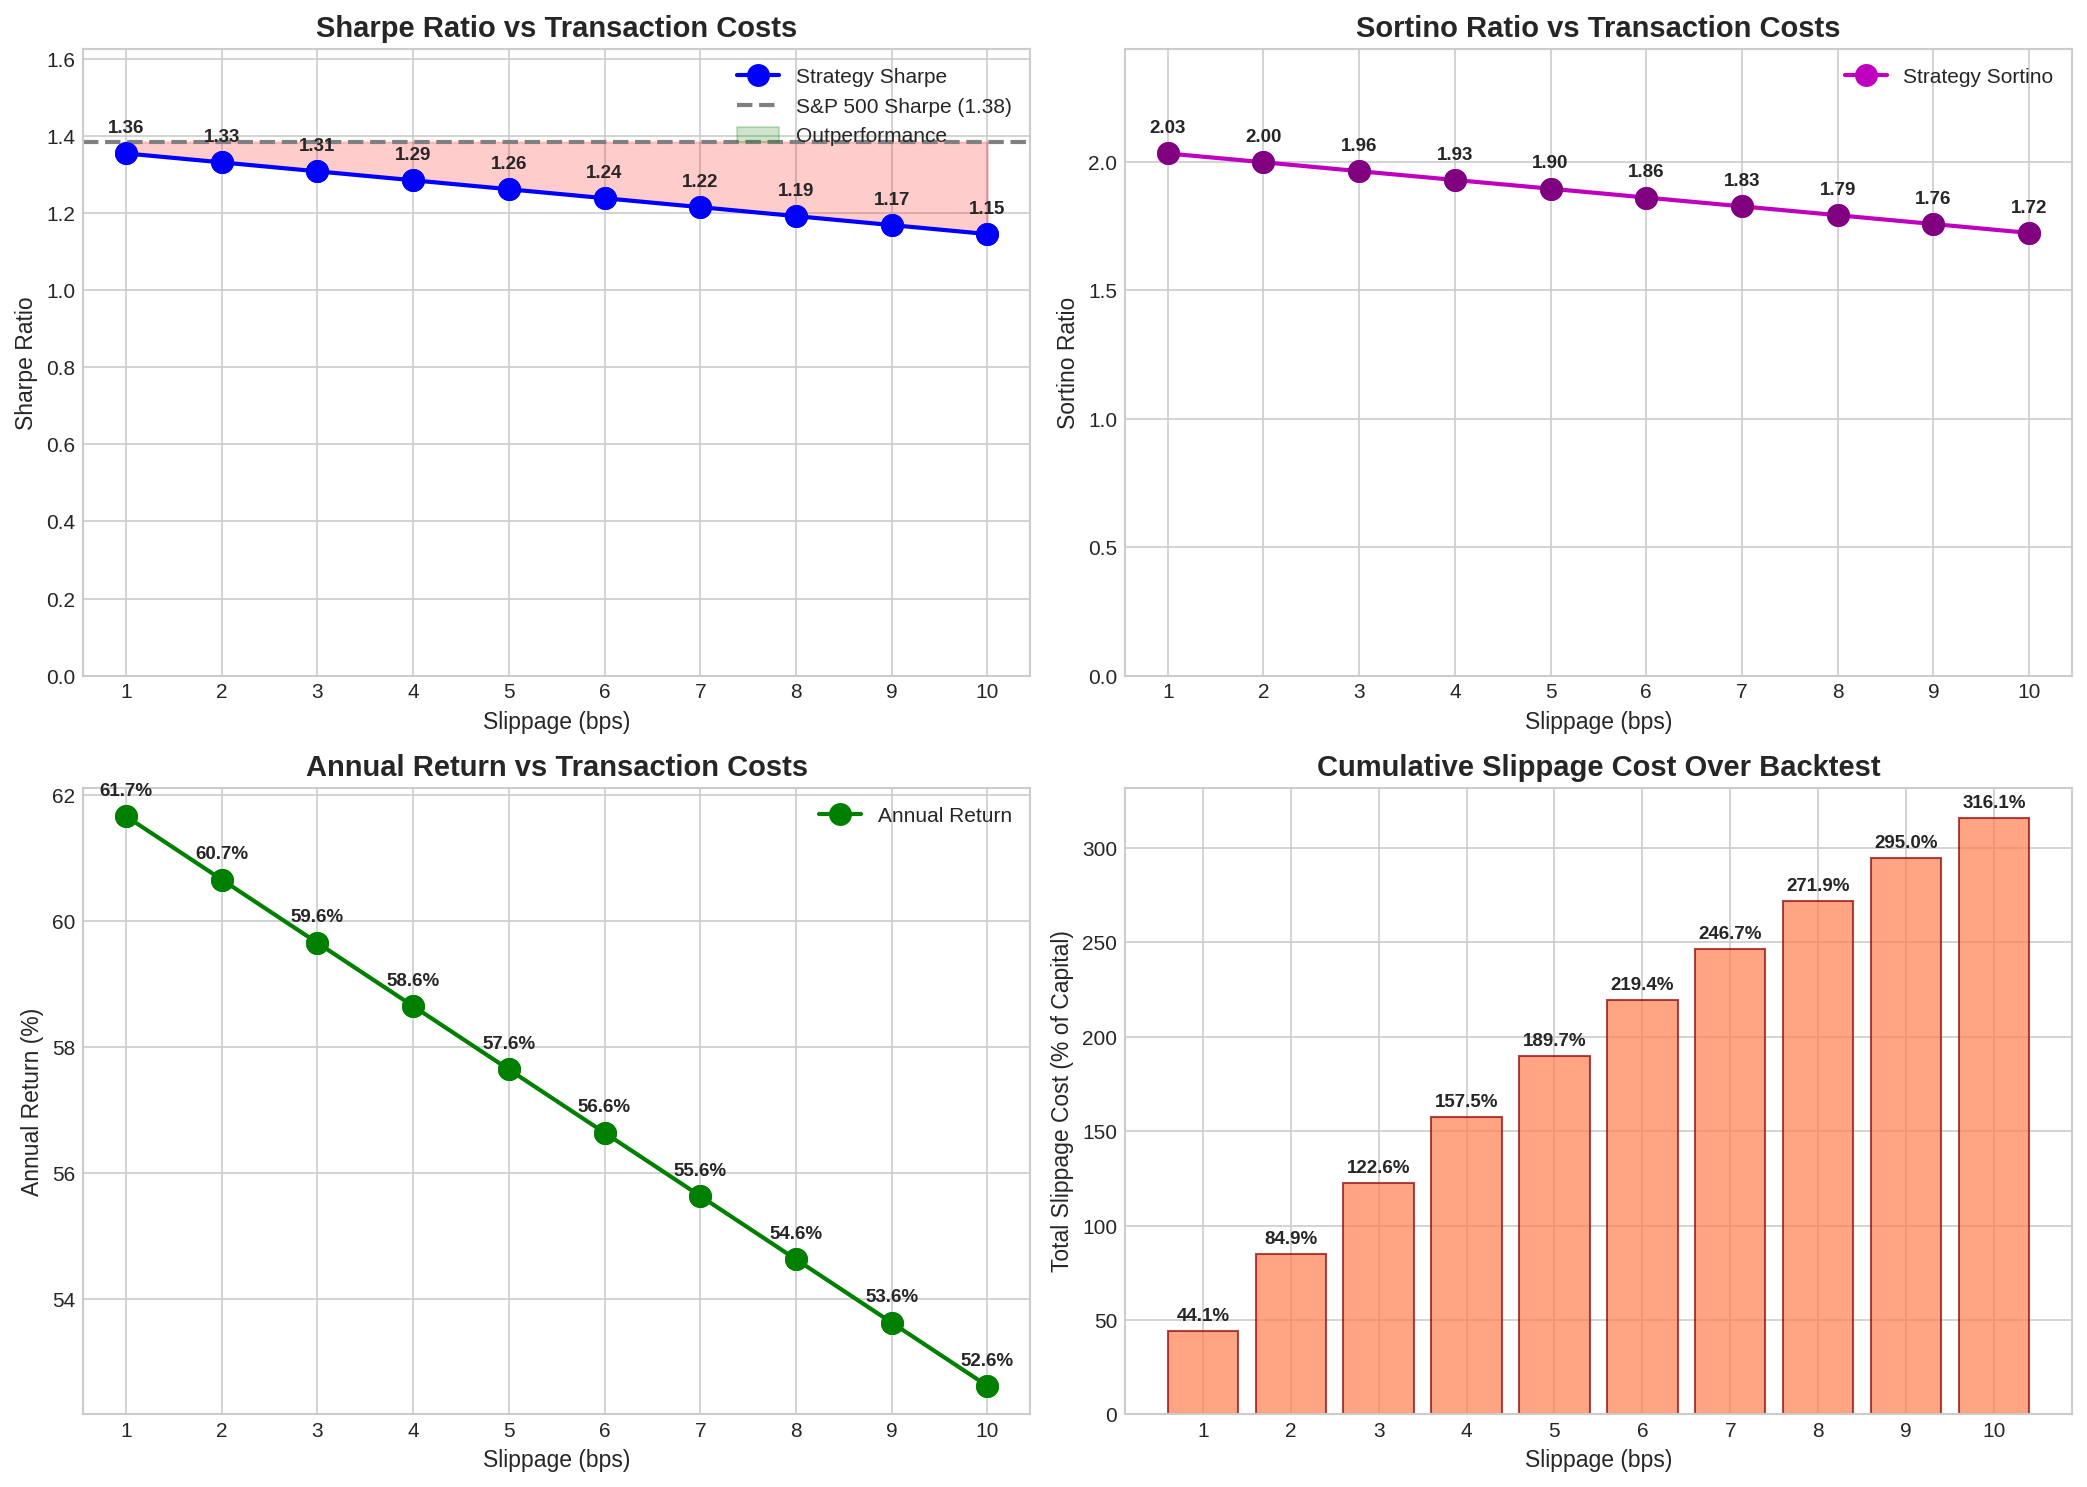
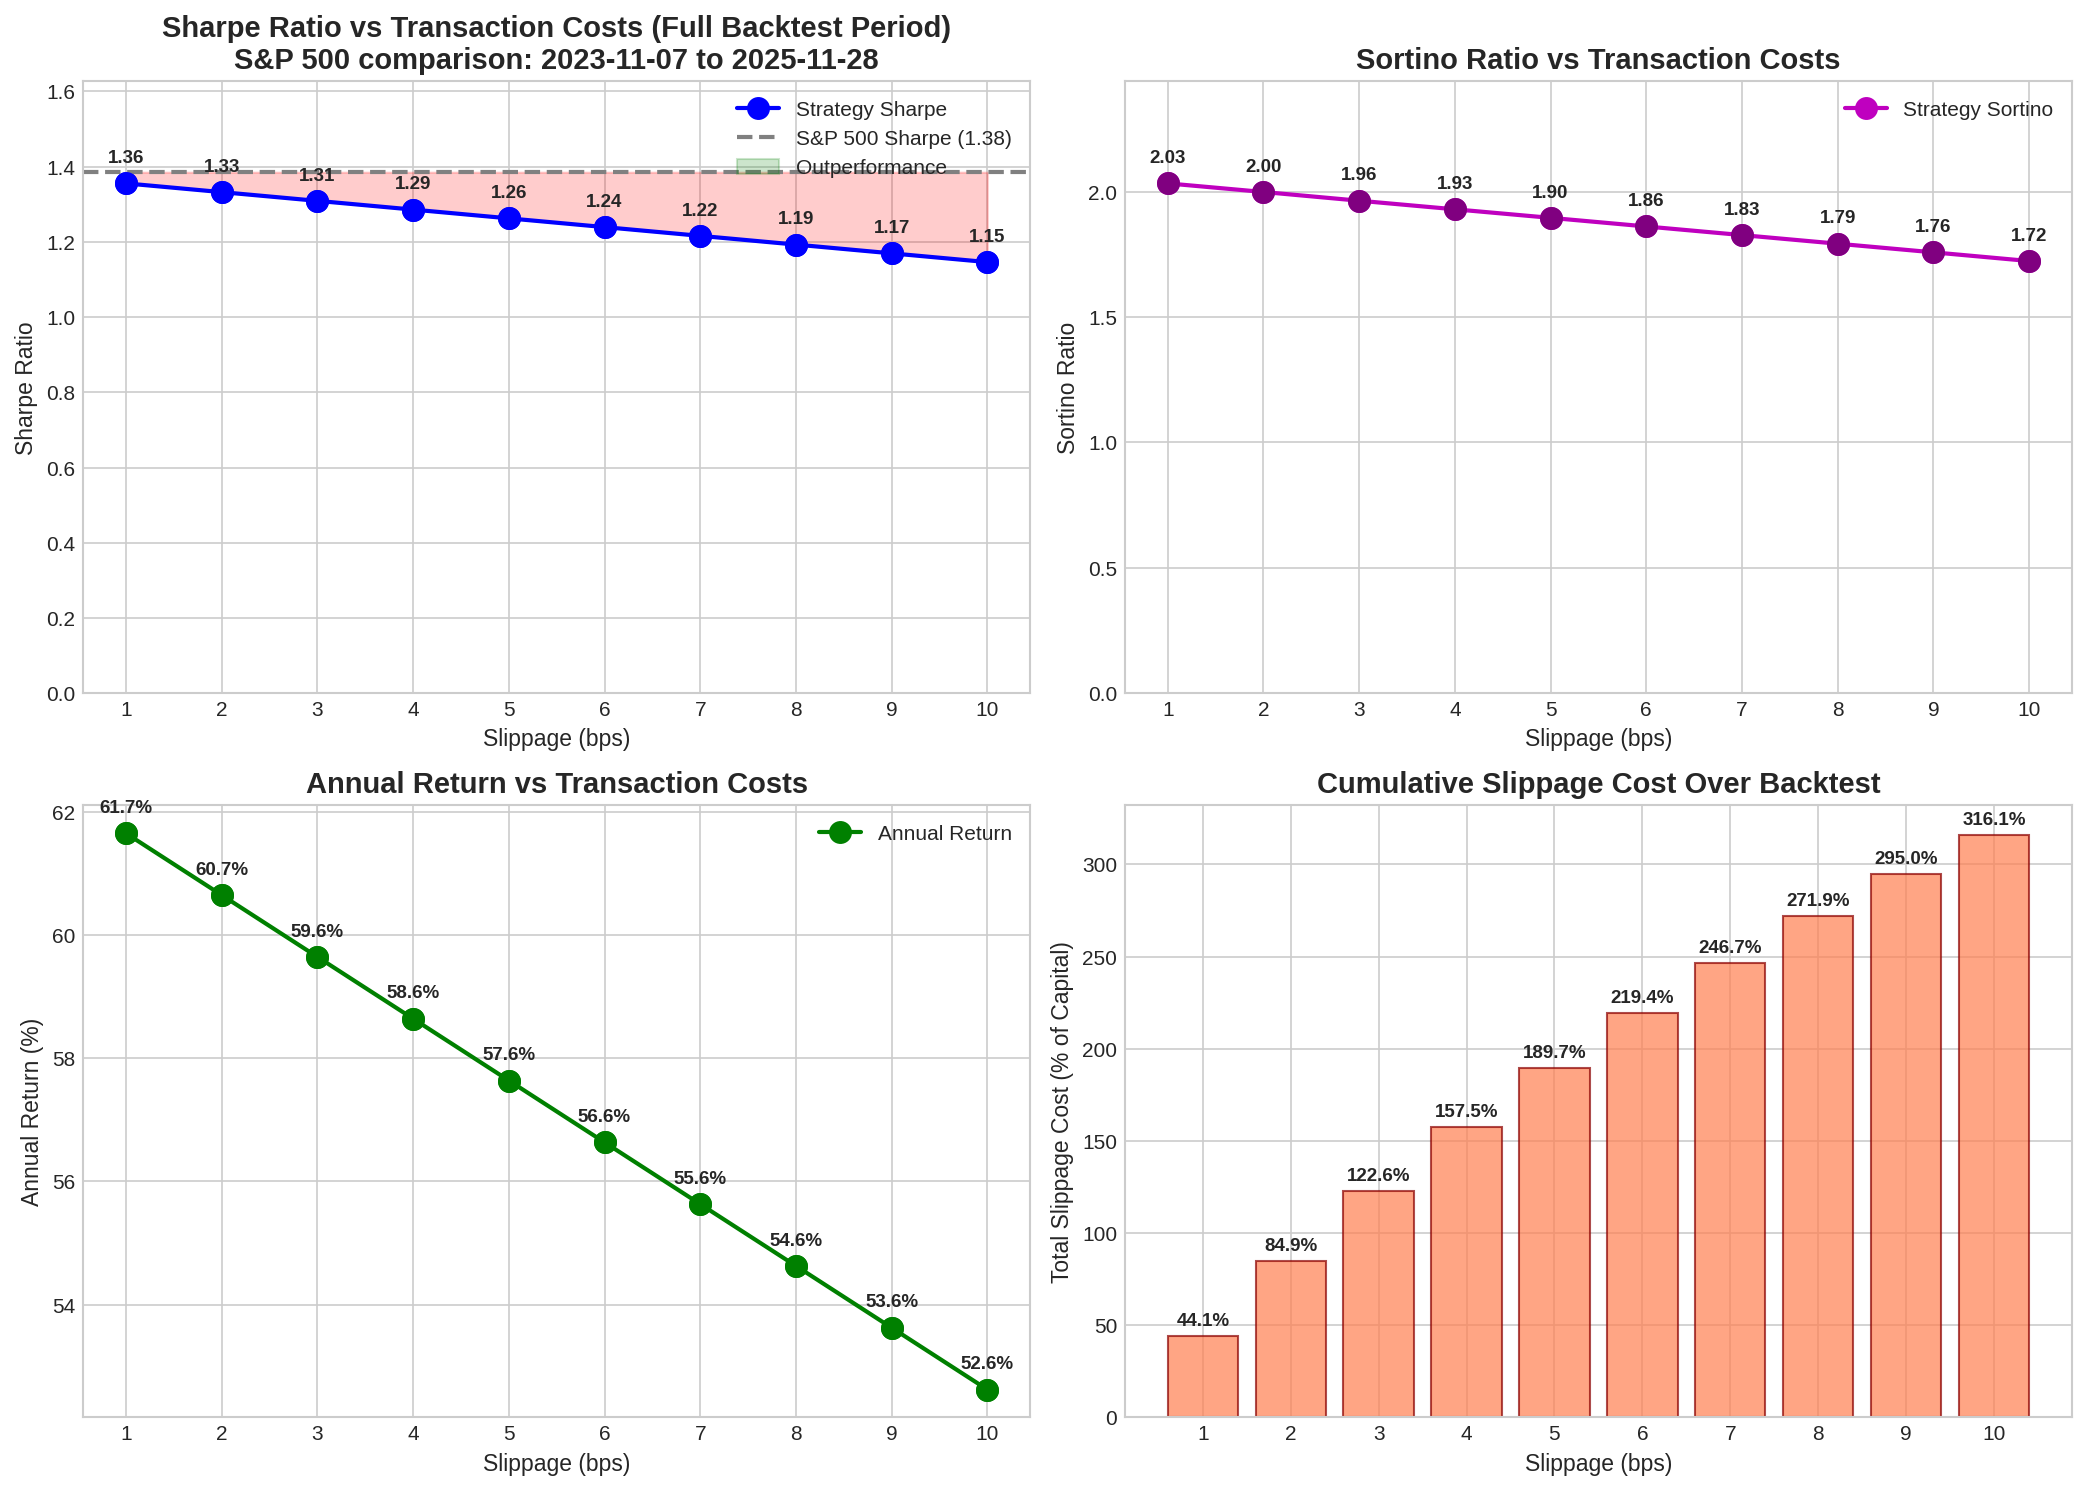
Fix S&P 500 Sharpe comparison to use aligned period
- SPY data only covers 2023-11 to 2025-11 (517 days)
- Strategy backtest covers 2020-03 to 2025-11 (1433 days)
- Now calculates both Sharpes over the SAME aligned period for fair comparison
- Plot title shows the aligned period dates
- Reports both full-period strategy Sharpe and aligned-period comparison

Results over aligned period (2023-11 to 2025-11):
- S&P 500 Sharpe: 1.38
- Strategy Sharpe: 1.36 (at 2 bps slippage)

diff --git a/analyze_strategy.py b/analyze_strategy.py
@@ -914,7 +914,7 @@ def run_slippage_sensitivity(loader, symbols, slippage_range, benchmark_returns=
     return results_by_slippage
 
 
-def create_slippage_sensitivity_plot(loader, symbols, benchmark_returns, output_dir):
+def create_slippage_sensitivity_plot(loader, symbols, benchmark_returns, output_dir, strategy_returns=None):
     """Create slippage sensitivity analysis plot."""
 
     slippage_range = list(range(1, 11))  # 1 to 10 bps
@@ -922,14 +922,29 @@ def create_slippage_sensitivity_plot(loader, symbols, benchmark_returns, output_
     print("\nRunning slippage sensitivity analysis...")
     sensitivity_results = run_slippage_sensitivity(loader, symbols, slippage_range, benchmark_returns)
 
-    # Calculate S&P 500 Sharpe ratio
-    if benchmark_returns is not None and len(benchmark_returns) > 252:
-        rf_daily = 0.02 / 252
-        bench_excess = benchmark_returns - rf_daily
-        spy_sharpe = bench_excess.mean() / benchmark_returns.std() * np.sqrt(252)
-        print(f"  S&P 500 Sharpe: {spy_sharpe:.2f}")
-    else:
-        spy_sharpe = None
+    # Calculate S&P 500 Sharpe ratio over ALIGNED period with strategy
+    spy_sharpe = None
+    aligned_period = None
+    if benchmark_returns is not None and strategy_returns is not None:
+        # Align strategy and benchmark returns
+        aligned = pd.DataFrame({
+            'strategy': strategy_returns,
+            'benchmark': benchmark_returns
+        }).dropna()
+
+        if len(aligned) > 252:
+            rf_daily = 0.02 / 252
+            bench_excess = aligned['benchmark'] - rf_daily
+            spy_sharpe = bench_excess.mean() / aligned['benchmark'].std() * np.sqrt(252)
+
+            # Also calculate strategy Sharpe over same period for fair comparison
+            strat_excess = aligned['strategy'] - rf_daily
+            strat_sharpe_aligned = strat_excess.mean() / aligned['strategy'].std() * np.sqrt(252)
+
+            aligned_period = f"{aligned.index.min().strftime('%Y-%m-%d')} to {aligned.index.max().strftime('%Y-%m-%d')}"
+            print(f"  Aligned period: {aligned_period} ({len(aligned)} days)")
+            print(f"  S&P 500 Sharpe (aligned): {spy_sharpe:.2f}")
+            print(f"  Strategy Sharpe (aligned): {strat_sharpe_aligned:.2f}")
 
     # Extract data for plotting
     slippages = list(sensitivity_results.keys())
@@ -966,7 +981,10 @@ def create_slippage_sensitivity_plot(loader, symbols, benchmark_returns, output_
 
     ax1.set_xlabel('Slippage (bps)', fontsize=11)
     ax1.set_ylabel('Sharpe Ratio', fontsize=11)
-    ax1.set_title('Sharpe Ratio vs Transaction Costs', fontsize=14, fontweight='bold')
+    title = 'Sharpe Ratio vs Transaction Costs (Full Backtest Period)'
+    if aligned_period:
+        title += f'\nS&P 500 comparison: {aligned_period}'
+    ax1.set_title(title, fontsize=14, fontweight='bold')
     ax1.set_xticks(slippages)
     ax1.legend(loc='upper right')
     ax1.set_ylim(0, max(sharpes) * 1.2)
@@ -1249,7 +1267,7 @@ def main():
         print("SLIPPAGE SENSITIVITY ANALYSIS")
         print("=" * 50)
         sensitivity_results, spy_sharpe = create_slippage_sensitivity_plot(
-            loader, symbols, benchmark_returns, OUTPUT_DIR
+            loader, symbols, benchmark_returns, OUTPUT_DIR, strategy_returns=results['returns']
         )
 
         # Print summary table
